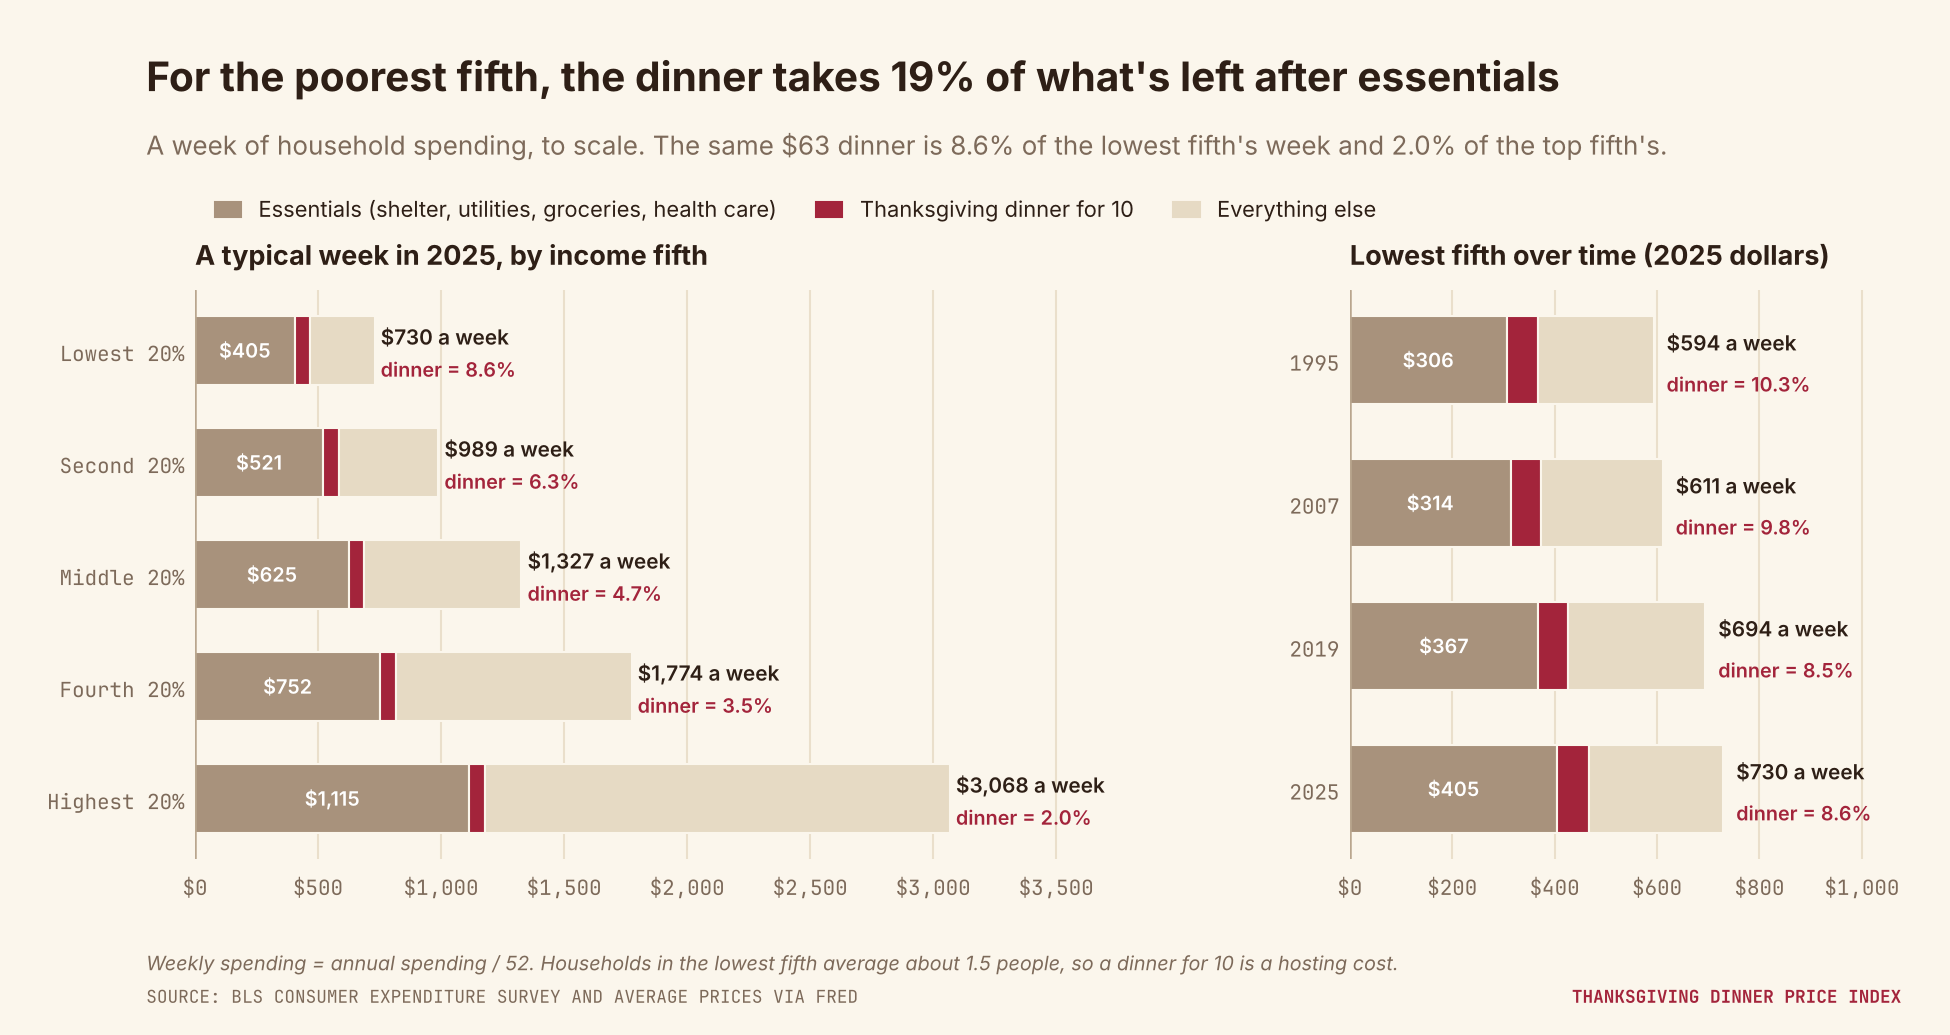
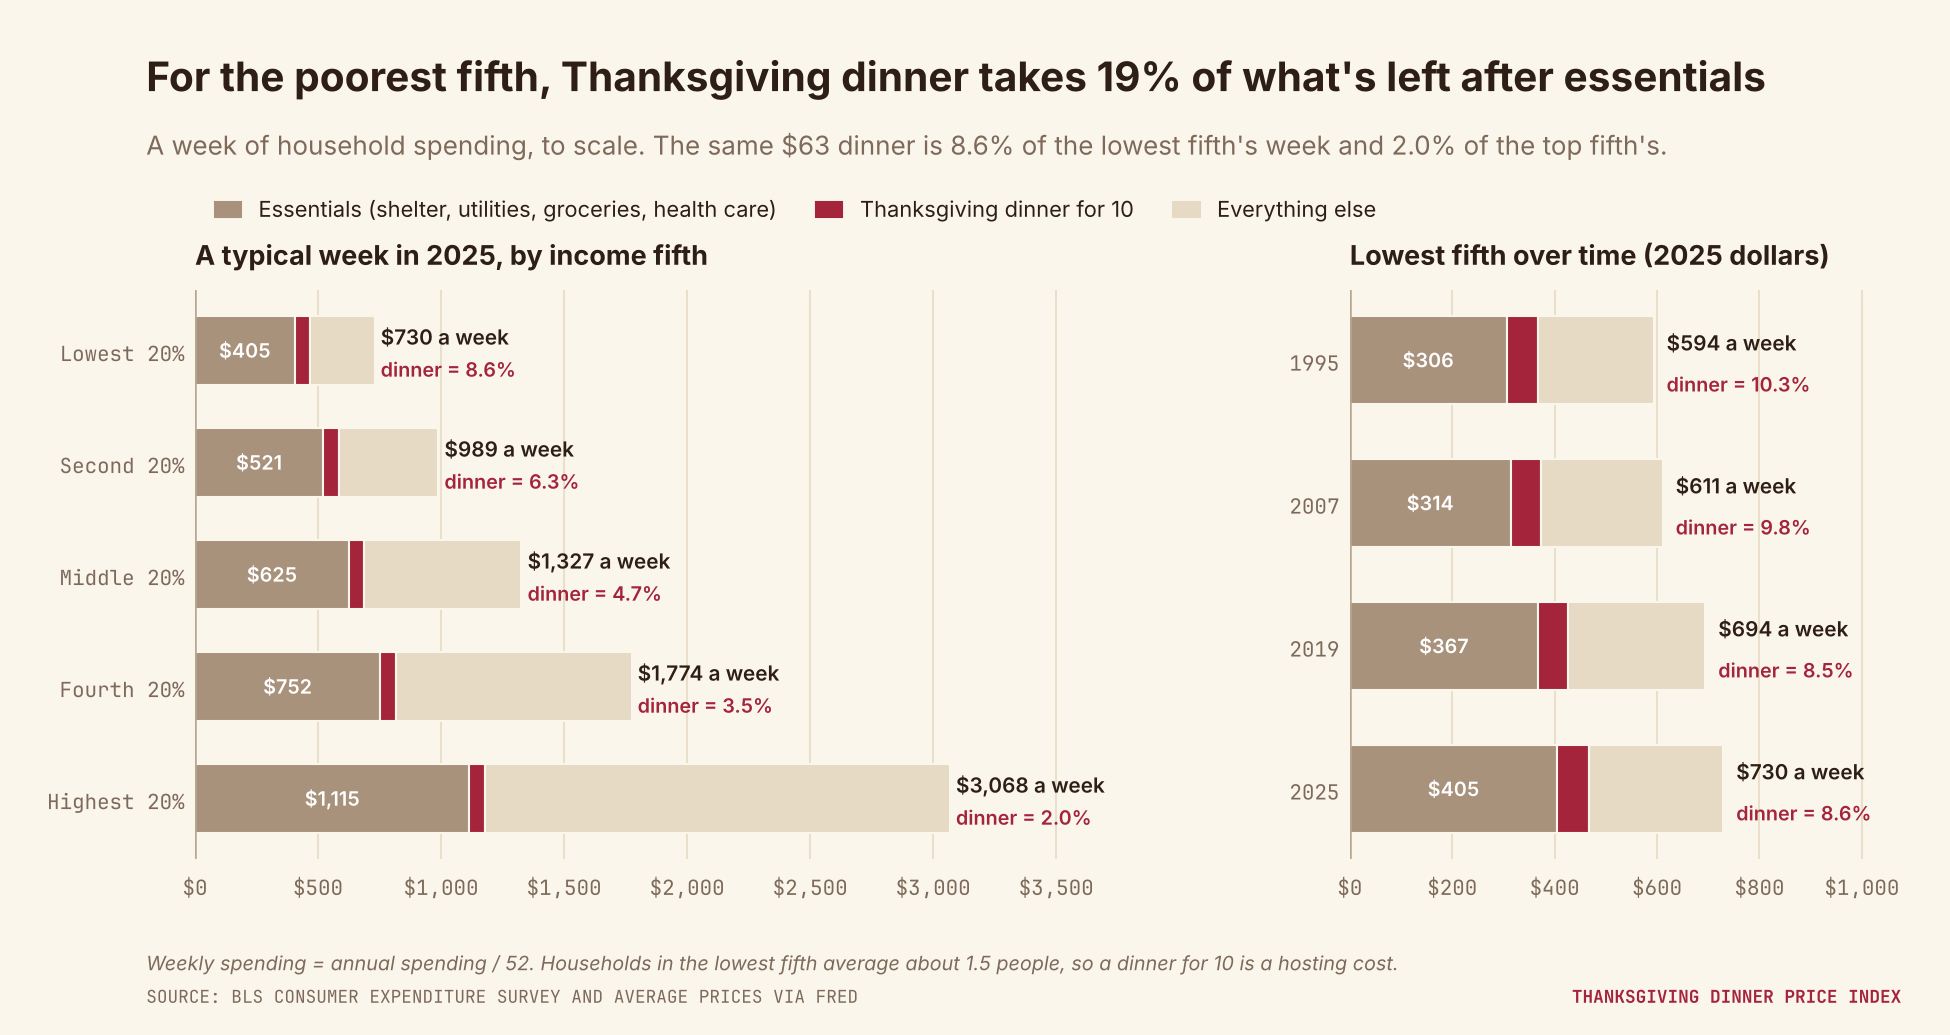
Retitle chart 5: Thanksgiving dinner for the poorest fifth
Claude-Session: https://claude.ai/code/session_015UrztArHpAPPRd1ooHHwA1

Changed region(s): [[0.2769, 0.0618, 0.9231, 0.0928]]

diff --git a/by_income.py b/by_income.py
@@ -126,7 +126,7 @@ fig.legend(handles=[Patch(color=ESS_C, label="Essentials (shelter, utilities, gr
                     Patch(color=OTH_C, label="Everything else")],
            loc="upper left", bbox_to_anchor=(0.1, 0.83), ncol=3, handlelength=1.2, columnspacing=1.8)
 d = now.loc["Lowest 20%"]
-cs.finish(fig, f"For the poorest fifth, the dinner takes {d.dinner_pct_of_nonessential:.0f}% of what's left after essentials",
+cs.finish(fig, f"For the poorest fifth, Thanksgiving dinner takes {d.dinner_pct_of_nonessential:.0f}% of what's left after essentials",
           f"A week of household spending, to scale. The same ${d.dinner_cost:.0f} dinner is {d.dinner_pct_of_week:.1f}% of the lowest fifth's week "
           f"and {now.loc['Highest 20%'].dinner_pct_of_week:.1f}% of the top fifth's.",
           "BLS Consumer Expenditure Survey and average prices via FRED", OUT / "5_week_of_spending.png",
